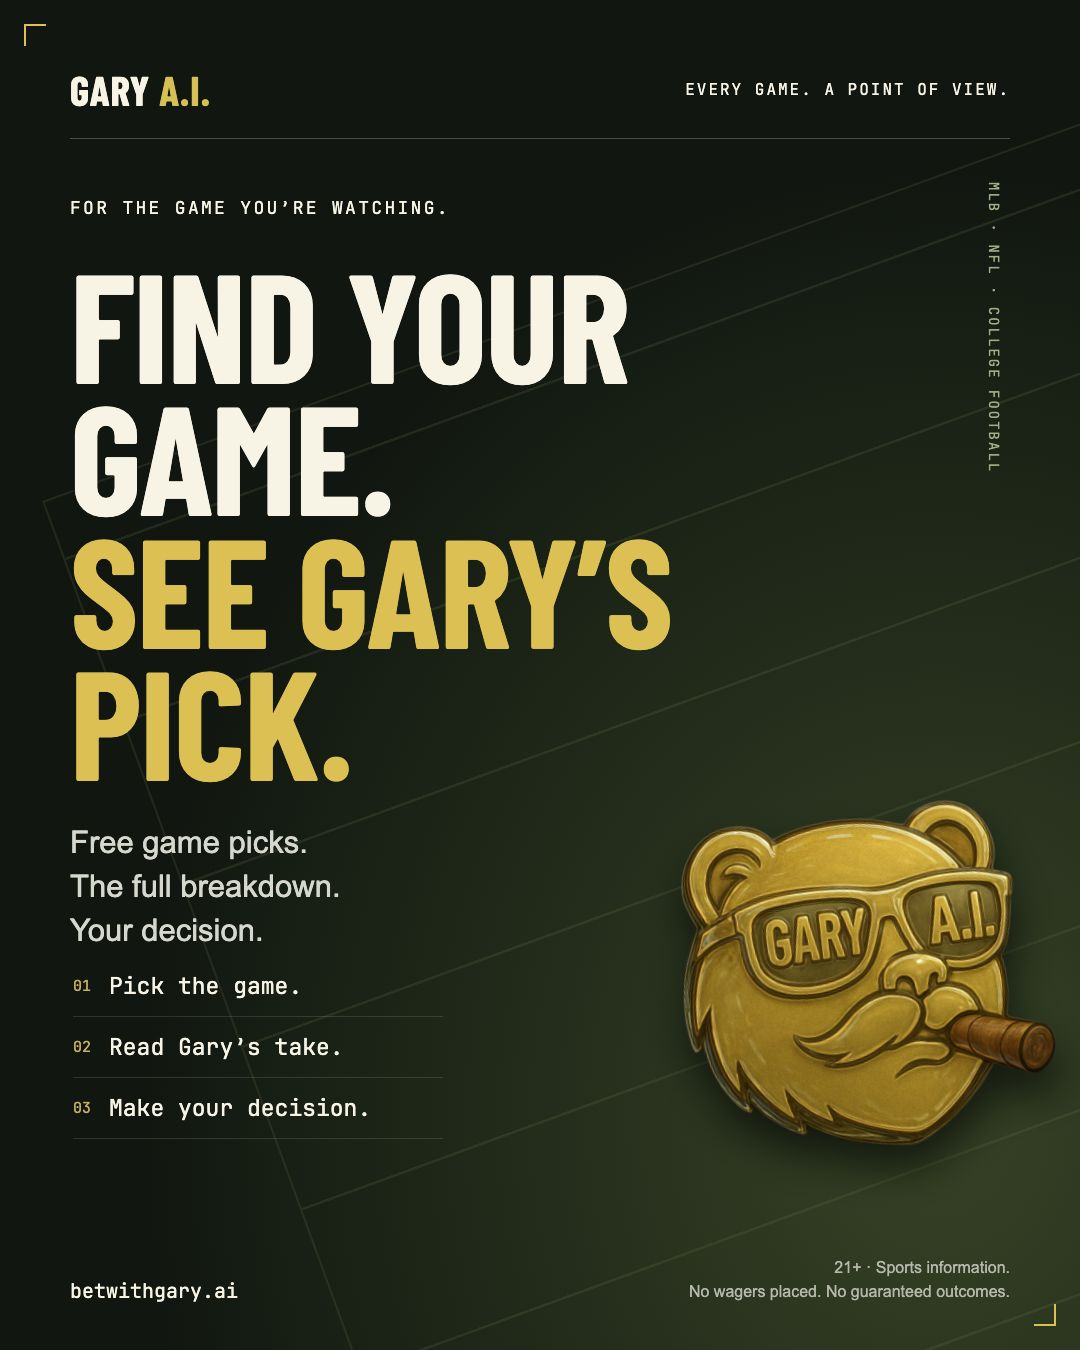
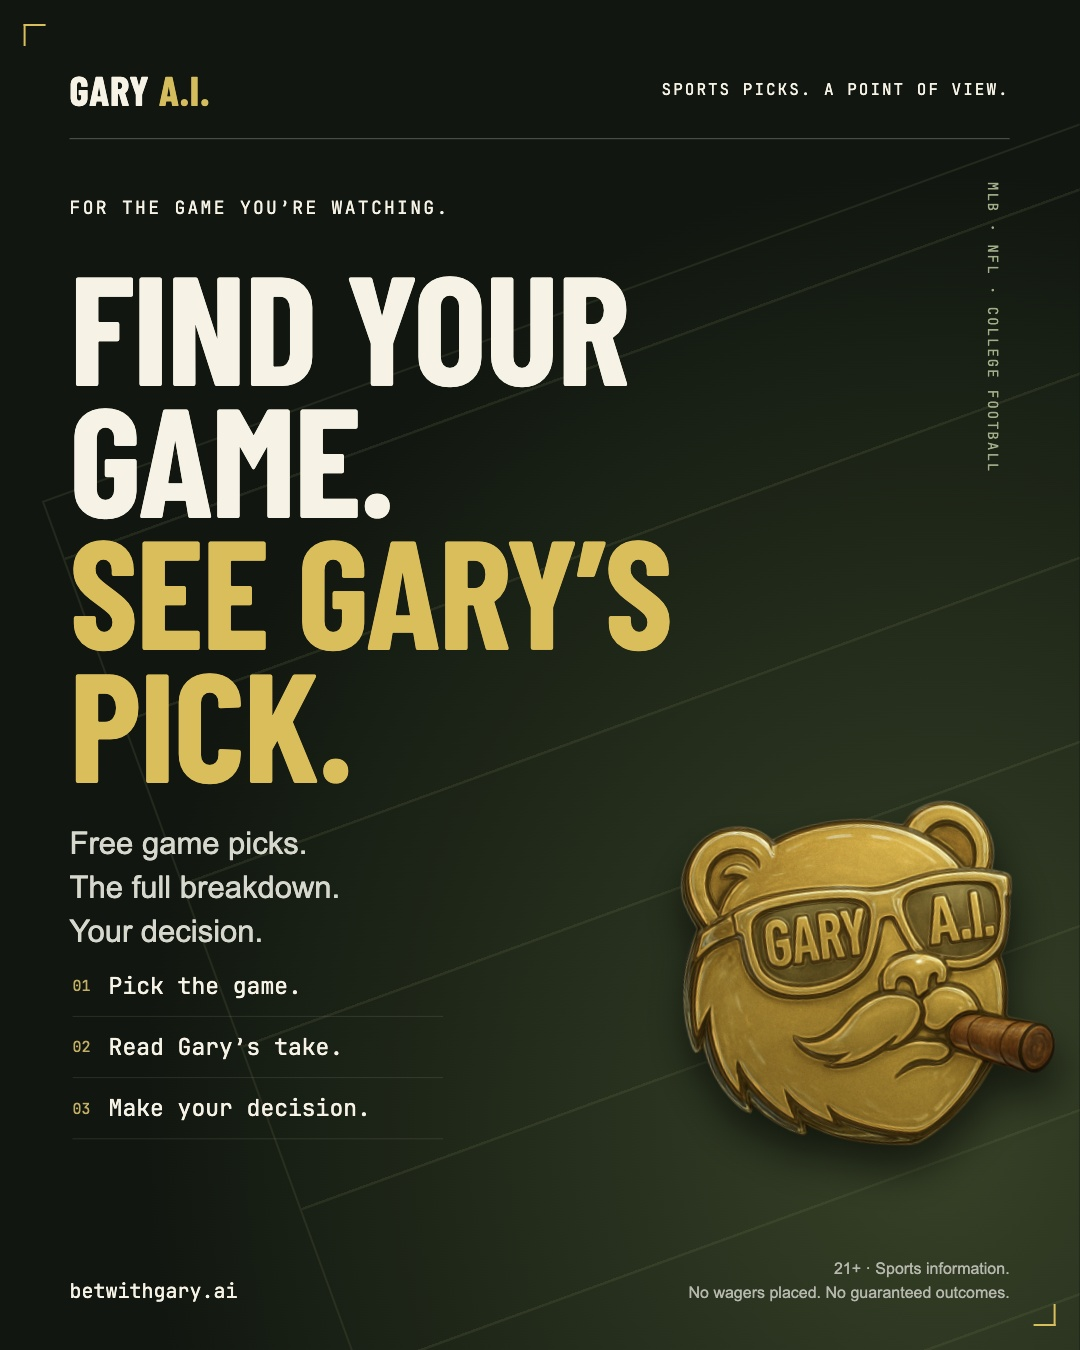
Record launch account checks and correct campaign coverage claim

diff --git a/GaryMarketing/launch-2026-09/content/index.html b/GaryMarketing/launch-2026-09/content/index.html
@@ -27,7 +27,7 @@ body.export .gallery{display:none}body.export{background:#101710}.art.wide{width
 <main>
 <article class="art find" id="find" aria-label="Find your game campaign artwork">
  <span class="corner tl"></span><span class="corner br"></span><div class="field"></div>
- <header class="mast"><div class="name">GARY <i>A.I.</i></div><div class="issue">Every game. A point of view.</div></header><div class="rule"></div>
+ <header class="mast"><div class="name">GARY <i>A.I.</i></div><div class="issue">Sports picks. A point of view.</div></header><div class="rule"></div>
  <div class="label">For the game you’re watching.</div><h1>FIND YOUR<br>GAME.<br><span class="gold">SEE GARY’S<br>PICK.</span></h1>
  <p class="copy">Free game picks.<br>The full breakdown.<br>Your decision.</p><div class="tag">MLB · NFL · COLLEGE FOOTBALL</div>
  <div class="route"><div><span>01</span> Pick the game.</div><div><span>02</span> Read Gary’s take.</div><div><span>03</span> Make your decision.</div></div>

diff --git a/GaryMarketing/launch-2026-09/LAUNCH_COMPLETION_TRACKER.md b/GaryMarketing/launch-2026-09/LAUNCH_COMPLETION_TRACKER.md
@@ -21,12 +21,12 @@ Codex can complete already-authorized preparation, implementation and account wo
 | ID | Priority / due | Deliverable and current status | Owner | Evidence needed to close | Dependency or decision |
 |---|---|---|---|---|---|
 | C01 | P0 · Sep 7 | **Prepared:** one current public promise and offer. Existing runbook replaces historical season/install promises. | Adam + Codex | Final profile, pin, launch, pricing and signup copy agree; each destination reviewed. | Use account-created-before-October-1 eligibility; do not invent a lifetime or season-end promise. |
-| C02 | P0 · Sep 7–8 | **Needs verification:** account inventory for X, Instagram, Product Hunt and Reddit; reuse owned accounts before creating duplicates. | Adam + Codex | Profile URL, account owner, working sign-in, available recovery and relevant posting settings recorded without secrets. | Identity verification, a real founder photo, 2FA challenge or inaccessible recovery may require Adam. |
+| C02 | P0 · Sep 7–8 | **Partly verified Sep 7:** existing X and Instagram business accounts accessible; [safe account receipt](SOCIAL_ACCOUNT_READINESS_2026-09-07.md). Product Hunt/Reddit sign-up paused before terms acceptance. | Adam + Codex | Profile URL, account owner, working sign-in, available recovery and relevant posting settings recorded without secrets. | Account agreement/identity approval remains pending; recovery/2FA and a real founder photo may require Adam. |
 | C03 | P0 · Sep 7–8 | **Needs verification:** recovery/2FA and access continuity for website/domain, social, email and developer services used at launch. | Adam | Owner and backup access confirmed in actual settings; recovery material stored privately. | Do not rotate keys, change billing or transfer ownership merely to complete this row. |
 | C04 | P0 · Sep 7–8 | **Prepared:** [Product Hunt packet](PRODUCT_HUNT_PACKET.md); account, existing listing and submission eligibility not verified. | Adam + Codex | Eligible personal profile, existing-listing check, completed draft, gallery and verified launch date. | New-account wait can extend beyond Sep 13; inspect the documented access option and actual account. A Gary brand account cannot submit. |
 | C05 | P0 · Sep 7–8 | **Prepared:** [Reddit playbook](REDDIT_PLAYBOOK.md); no account or community posting permission verified. | Adam + Codex | Owned profile, disclosed affiliation, one current rules receipt, permitted placement and final post draft. | Reddit is optional for Sep 13. Moderator contact, if necessary, is a separate message requiring existing explicit authorization. |
-| C06 | P0 · Sep 7–9 | **Dependency:** Instagram mobile minimum age, website field and domain-shaped username issue remain open in the Sep 7 runbook. | Adam + Codex | Saved/reloaded controls and working instrumented link; handle decision recorded. | A 21+ bio is not the minimum-age control. Follow the runbook's current organic-channel decision; paid promotion is separate. |
-| C07 | P0 · Sep 7–12 | **Implemented / production verified Sep 7:** website performance work and the pricing return to Account deployed in `ef491056`; production is Ready. [Performance evidence](WEB_PERFORMANCE_2026-09-07.md). | Codex | The linked report records deployment and verification. Recheck the final mobile and desktop campaign destinations in the Sep 12 rehearsal. | Coordinate with the performance task; do not duplicate or overwrite its edits. A verified deployment does not replace the final launch rehearsal. |
+| C06 | P0 · Sep 7–9 | **Dependency, inspected Sep 7:** Instagram's Website field is blank and mobile-only; Account Status says under-18s can see the profile. [Account receipt](SOCIAL_ACCOUNT_READINESS_2026-09-07.md). Domain-shaped username decision remains open. | Adam + Codex | Saved/reloaded controls and working instrumented link; handle decision recorded. | A 21+ bio is not the minimum-age control. Follow the runbook's current organic-channel decision; paid promotion is separate. |
+| C07 | P0 · Sep 7–12 | **Implemented / production verified Sep 7:** performance and pricing return in `ef491056`; factual-copy follow-ups through `f7fd671d` also READY and verified on the real domain. [Dated evidence](WEB_PERFORMANCE_2026-09-07.md). | Codex | The linked report records deployment and verification. Recheck the final mobile and desktop campaign destinations in the Sep 12 rehearsal. | Coordinate with the performance task; do not duplicate or overwrite its edits. A verified deployment does not replace the final launch rehearsal. |
 | C08 | P0 · Sep 7–12 | **Implemented, observation due:** account and private Book journey. Prior functional checks exist; launch rehearsal still needed. | Codex + Adam | Signed-out explanation, sign-in/reset, successful private save, settlement, editing, export/deletion and return tested in scoped demo data. | Auth challenge or a real-device observation may require Adam. Keep demo activity out of audience claims. |
 | C09 | P0 · Sep 7–12 | **External handoff only:** any native release/Apple availability fact needed for marketing is owned by the separate release task. The dated review's old receipt is not current status. | Separate release owner; Adam receives facts | Dated factual availability handoff supplied by that owner. Codex verifies only website features in this session. | Do not inspect native/iOS source, binaries, devices or App Store Connect, even read-only. Use website-only claims until a current release-owner handoff exists. |
 | C10 | P0 · Existing NFL promise before Sep 9; recurring flow Sep 7–12 | **Dependency, audited Sep 7:** general email signup stays disabled because production lacks `COMPANY_POSTAL_ADDRESS`. New NFL email capture/promise removed in `119fa81b`; existing subscribers still need reconciliation. [Email readiness evidence](EMAIL_SUPPORT_READINESS_2026-09-07.md). | Adam + Codex | Approved factual mailing address, deliberate activation decision, provider/storage checks, authorized confirmation/campaign/unsubscribe delivery receipts; separate resolution for prior one-time kickoff subscribers. | Do not enable email merely by adding an address: that can activate scheduled campaigns. No invented address, unconsented recurring-list import or unverified sending promise. |
@@ -34,7 +34,7 @@ Codex can complete already-authorized preparation, implementation and account wo
 | C12 | P0 · Sep 8–12 | **Implemented:** consent-based session/useful-reading and Book milestones; refresh baseline and all campaign destinations. | Codex | Correct source/campaign/creative attribution, analytics-declined flow, no private contents in events, actual report timestamp. | Existing evidence is eight sessions and one useful read in a partial-exposure calendar week; it is not validated acquisition. |
 | C13 | P1 · Sep 8–12 | **External handoff only:** App Store provider/campaign attribution facts were not verified in the measurement handoff. Apple-account work belongs to its separate owner. | Separate release/Apple-account owner; Adam receives facts | That owner supplies verified configuration/reporting facts through a private handoff if needed; no credentials go in this tracker. | No App Store Connect/native inspection or configuration in this session. Keep website clicks separate from installations; missing attribution does not block the website campaign. |
 | C14 | P0 · Before each promotion | **Implemented:** existing readiness reporting and game-paced X publishing. The Sep 7 morning receipt is not a full-day guarantee. | Codex + Adam | Fresh coverage, pregame publication and actual response/receipt check, including unresolved-send status. | Do not change pick generation, sporting decisions or publishing cadence to force a marketing green check. Coordinate genuine failures with their owner. |
-| C15 | P1 · Sep 8 | **Needs verification:** correct @BetwithGary developer account, credits, recharge/cap and alert visibility. | Adam | Billing-account identity and available credit/alert evidence without secret or payment details. | Spending or balance changes require authority. Stale private engagement drafts have a separate provider-credit dependency. |
+| C15 | P1 · Sep 8 | **Partly verified Sep 7:** existing Gary developer account has positive credit, auto-recharge enabled and a configured cap not reached. [Read-only receipt](SOCIAL_ACCOUNT_READINESS_2026-09-07.md). Alert destination/delivery remains unverified. | Adam | Actual operational alert configuration/delivery and access-continuity evidence without secret or payment details. | No spending or balance changes made. Stale private engagement drafts have a separate provider-credit dependency. |
 | C16 | P0 · Sep 8–12 | **Prepared:** five willing-adult usability sessions and issue/retest worksheet. No observations yet recorded. | Adam + Codex | Actual anonymous task observations; observed failures fixed and retested. | Volunteers and contact authority are needed. Do not claim five sessions because the protocol exists. |
 | C17 | P0 · Sep 12 | **Prepared:** final launch rehearsal and content freeze after real feature checks. | Adam + Codex | Completed rehearsal below, final files/links, publication owner and known limitations. | Hold only the affected channel or promise when a dependency remains; website launch does not require every optional channel. |
 | C18 | P0 · Sep 8 | **External owner:** shared website/app Terms contain an overbroad no-funds statement despite paid subscriptions and a categorical legal-status claim. Factual correction handed to the separate release task September 7. | Separate release owner | Dated published Terms correction and focused regression evidence; no unsupported jurisdictional certification. | Section 1 governs both website and app, so this session's no-effect-on-iOS boundary excludes changing that shared contract. This is a copy finding, not a completed legal review. |
@@ -104,6 +104,9 @@ Append a row only when an action or check occurs. Keep personally identifying de
 | P05 review | 2026-09-07, 11:12 PM ET | Fixed / verified | [Gallery manifest](product-hunt/README.md) | Six screenshots renamed to `.jpg` to match actual JPEG content, without pixel changes; all local references and browser images load. Original mark remains PNG. | Codex |
 | C01 / C07 final review | 2026-09-07, about 11:19 PM ET | Published / verified | Production `cab21f17`; [final website checks](WEB_PERFORMANCE_2026-09-07.md) | Remaining NFL guaranteed-coverage and next-morning-grading claims qualified in page/metadata. 385 website tests, TypeScript and lint pass. Real-domain browser verification passed; includes the separate readiness task's Book release `d52c34a9`. | Codex |
 | C18 | 2026-09-07, about 11:22 PM ET | Handed off, not changed here | Public `/terms` section 6 and `/pricing`; release-task coordination | Proposed factual distinction between subscription payments and wagering funds. The separate release lane owns this shared-contract correction; no Terms/native/payment changes by this session. | Separate release owner |
+| C02 / C06 / C15 | 2026-09-07, about 11:25–11:40 PM ET | Partly verified / explicit dependencies | [Social account receipt](SOCIAL_ACCOUNT_READINESS_2026-09-07.md) | Existing X/Instagram access and X credit/recharge/cap observed. Instagram mobile link/age controls, account recovery and operational alert delivery remain open. No publication, spending, profile changes or account creation. | Codex; Adam for remaining inputs |
+| P01 / P06 review | 2026-09-07, about 11:49 PM ET | Fixed / visually verified; not published | [Campaign manifest](content/README.md); both concept 01 JPEGs | Removed “Every game” guarantee from the editable small heading and regenerated both exact-size exports. Independent visual review confirmed complete mastheads/footers. Instagram README now includes all C06 gates. | Codex |
+| C01 / C07 review | 2026-09-07, about 11:51 PM ET | Published / verified | Production `f7fd671d`; [website receipt](WEB_PERFORMANCE_2026-09-07.md) | Home/Hub/root metadata and llms.txt aligned to actual publication availability and authoritative access offer. Real-domain checks pass; 410 combined website tests, TypeScript and lint pass. No native or pick-process changes in this commit. | Codex |
 
 ## Current policy references
 

diff --git a/GaryMarketing/launch-2026-09/SOCIAL_ACCOUNT_READINESS_2026-09-07.md b/GaryMarketing/launch-2026-09/SOCIAL_ACCOUNT_READINESS_2026-09-07.md
@@ -1,0 +1,25 @@
+# Social account readiness — September 7, 2026
+
+Read-only account checks completed approximately 11:25–11:40 PM Eastern. This is an execution receipt for [tracker C02, C06 and C15](LAUNCH_COMPLETION_TRACKER.md), not permission to publish, spend or accept account agreements. No posts, follows, messages, account creation, billing changes or profile edits were made. Private billing amounts, account identifiers and recovery information are intentionally omitted.
+
+## X
+
+- The existing [@BetwithGary profile](https://x.com/BetwithGary) was accessible through the account switcher. Its saved product bio and website destination were present; a sample of September 7 posts was visible. A sampled profile does not establish full-day publisher health or resolve uncertain sends.
+- The authenticated [X Developer Console](https://console.x.com/) showed the existing Gary A.I developer account and application. Prepaid credit was positive, automatic recharge was enabled, and a billing-cycle spending cap was configured and had not been reached. These observations were made without generating a paid API request or changing any controls.
+- The inspected Notifications view showed platform news, not a verified low-balance or spending-alert delivery receipt. The destination and delivery of operational alerts remain unverified. Backup access and recovery/2FA also remain unverified.
+- This does not resolve a separate provider-credit dependency for private engagement drafts. It does not authorize a new campaign schedule or changes to the existing game-paced publisher.
+
+X identifies this console as its developer account interface in its [developer portal documentation](https://docs.x.com/fundamentals/developer-portal); current payment mechanics are described in its [pricing documentation](https://docs.x.com/x-api/getting-started/pricing). The account observations above, rather than documentation alone, establish the recorded controls.
+
+## Instagram
+
+- The existing [@betwithgary.ai business profile](https://www.instagram.com/betwithgary.ai/) was accessible and retained its saved product bio. No website link was displayed on the profile.
+- Edit Profile showed an empty, disabled Website field and instructed that links must be edited using the mobile app. No replacement link was saved.
+- Account Status → Limits to your reach reported no reach restriction and eligibility for recommendation, but explicitly stated that people under 18 could see the profile and content. This is not evidence of the intended 21+ account control.
+- The mobile minimum-age and website-link steps remain open. The existing runbook's domain-shaped username decision also remains unverified. A “21+” bio is not an age restriction, and reach eligibility is not approval for every betting-related post or paid campaign.
+
+## Product Hunt and Reddit
+
+The Product Hunt founder packet, three website gallery images, brand thumbnail and Reddit playbook are prepared. Account sign-up was paused before accepting terms; no new account, product draft, launch schedule or Reddit post was created. A personal Product Hunt identity and its current submission eligibility must be established. The optional newsletter/access decision is separate from approving sign-up. Any existing personal Reddit account remains untouched; community permission is still required for the intended placement.
+
+Next action remains Adam's action-time confirmation of the proposed account identity/email and account agreements. Any password, security challenge or recovery step that requires Adam must be handed back rather than invented. Do not advance this receipt to “complete” solely because the materials are ready.

diff --git a/GaryMarketing/launch-2026-09/content/README.md b/GaryMarketing/launch-2026-09/content/README.md
@@ -2,7 +2,7 @@
 
 Four finished concepts, each exported as **1080×1350 portrait** and **1600×900 landscape** JPEG. The editable source is `index.html`; assets are local and no external rendering service is required. The graphics were inspected in the browser at export size. They use original layouts, existing Gary art/fonts and a dated real app screenshot. No audience figures, testimonials or winning results were invented.
 
-**Publication status:** prepared, not posted or scheduled. First-party organic X and the Gary website are the initial destinations. Portrait versions are ready for the adult Instagram editorial rollout described in the runbook once the mobile minimum-age setting is saved and verified. TikTok video scripts require founder footage and a permitted publishing route. Do not boost these assets or book a creator from this package alone.
+**Publication status:** prepared, not posted or scheduled. First-party organic X and the Gary website are the initial destinations. Instagram publication remains gated by all account checks in [tracker C06](../LAUNCH_COMPLETION_TRACKER.md): the saved/reloaded mobile minimum-age setting, working website link and recorded domain-shaped username decision. TikTok video scripts require founder footage and a permitted publishing route. Do not boost these assets or book a creator from this package alone.
 
 ## Copy ready for review
 
@@ -72,5 +72,7 @@ Do not describe a build as live until the App Store confirms availability. These
 ## Reproduce or edit
 
 Serve this directory with a local static server. Open `/?piece=find&export=1` at 1080×1350; use `piece=reason`, `record` or `book` for other concepts. Add `&wide=1` and use 1600×900 for landscape. Browser screenshots return JPEG bytes; use `.jpg` filenames. Review each layout and footer after edits. The full original app screenshot stays in `assets/`; its display is cropped by CSS to the relevant card.
+
+September 7 review: concept 01's small heading now reads “Sports picks. A point of view.” instead of promising every-game coverage. Both concept 01 JPEG exports were regenerated from the editable HTML and visually checked at exactly 1080×1350 and 1600×900, including their full masthead and footer. The other six exports and historical app example were not changed. For these captures, Chrome's observed 125% page zoom was accounted for in the article screenshot clip; verify actual output dimensions and the entire artwork rather than assuming viewport size equals capture size. No browser zoom preference was changed.
 
 This is a concrete campaign package, not a new mandatory design template. Keep the supplied fonts and actual Gary mark for these pieces, and design future pieces around the information they need to communicate.

diff --git a/GaryMarketing/launch-2026-09/WEB_PERFORMANCE_2026-09-07.md b/GaryMarketing/launch-2026-09/WEB_PERFORMANCE_2026-09-07.md
@@ -52,3 +52,11 @@ No application, pick-process, backend, database or native-app changes were neede
 At about 11:10 PM Eastern, the live pricing button “CHECK YOUR WINNERS ACCESS” opened `https://www.betwithgary.ai/account?next=%2Faccount`, preserving the membership destination through sign-in. This signed-out check does not certify a real user's entitlement.
 
 The later website-email correction and its separate production receipts are documented in [email and support readiness](EMAIL_SUPPORT_READINESS_2026-09-07.md). The final copy-only follow-up `cab21f17` passed 385 working-tree website tests across 54 files, TypeScript and ESLint, and was verified in production at about 11:19 PM Eastern. This includes concurrent website work by other sessions. The byte comparisons above remain the earlier matched `ef491056` measurements and are not reattributed to later releases.
+
+## Additional public-copy review and deployment
+
+Website-only follow-up `f7fd671d28f637e6b74eed3da428f12f7fe4311e` corrected unsupported every-game, every-morning and next-morning-grading promises on Home, root metadata and Hub. The AI-readable `/llms.txt` response now uses the existing authoritative free/launch-offer constants and accurately describes account-owned Winners access on both surfaces. No data fetch, cache, authentication, pick-generation, grading or native-app behavior was changed by this six-file commit.
+
+Git-built production deployment `dpl_CkjRvc5PtKy1pqh5WiBE3ryHvMfN` reached READY with `www.betwithgary.ai` and the normal production aliases. Real-domain Home and Hub browser checks at approximately 11:51 PM Eastern confirmed the new visible copy, page titles/descriptions and unchanged canonical destinations. A public HTTP check of `/llms.txt` returned 200 with `text/plain; charset=utf-8`, the exact account-created-before-cutoff offer, pricing destination and no obsolete all-free/every-pick claim. The browser could not display this plain-text route, so this last check was an HTTP response check, not a rendered-page claim.
+
+Five focused new tests pass, including empty feeds and unavailable record data. The subsequent combined working-tree run passed **410 tests across 58 files**, TypeScript and whole-website ESLint. The combined count includes concurrent work by the separate release owner; it is not attributed solely to this copy commit. That owner's in-flight lint issue was resolved by its owner before this final passing run. No new performance or Core Web Vitals measurement was made for this copy-only release.
